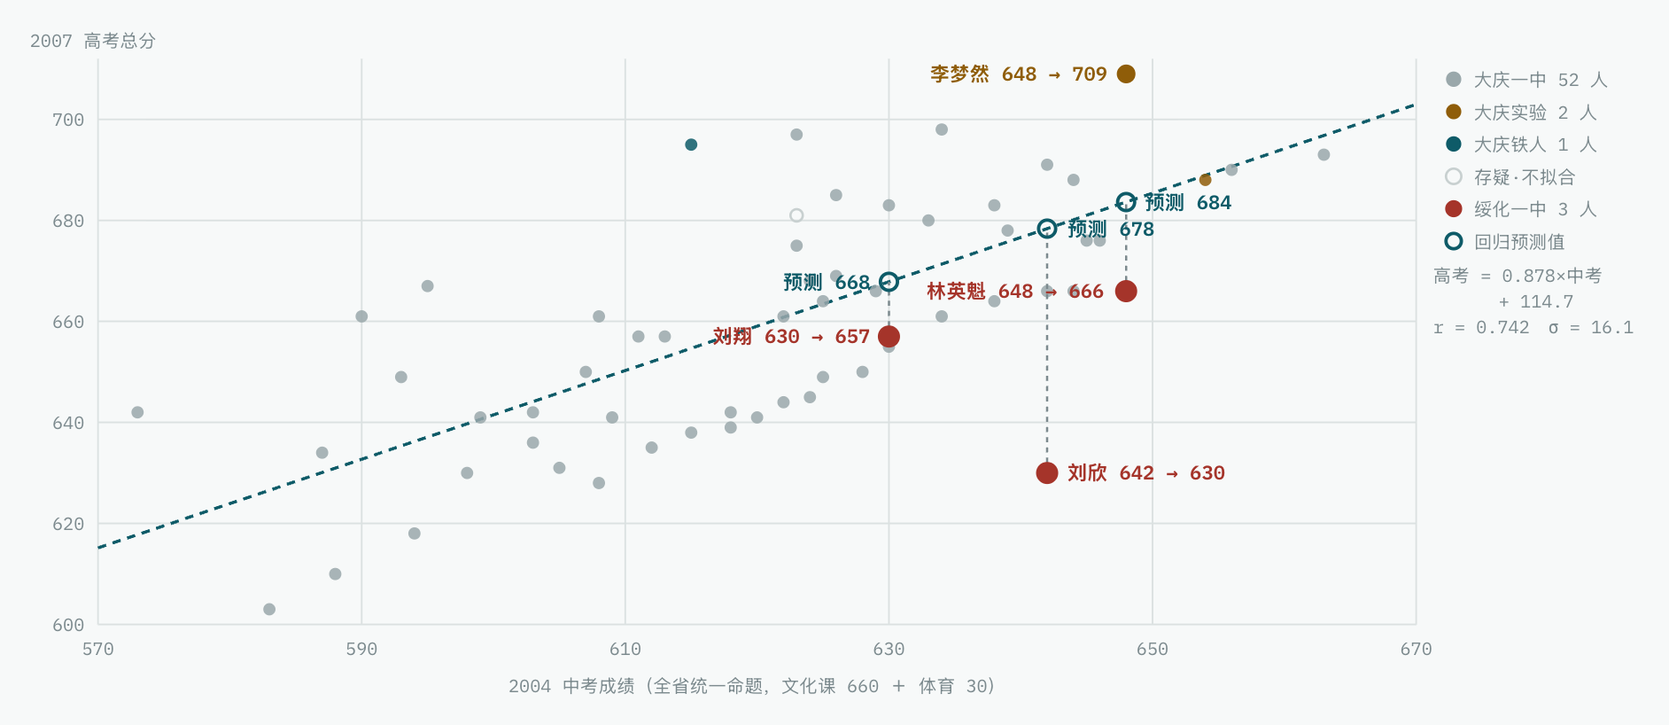
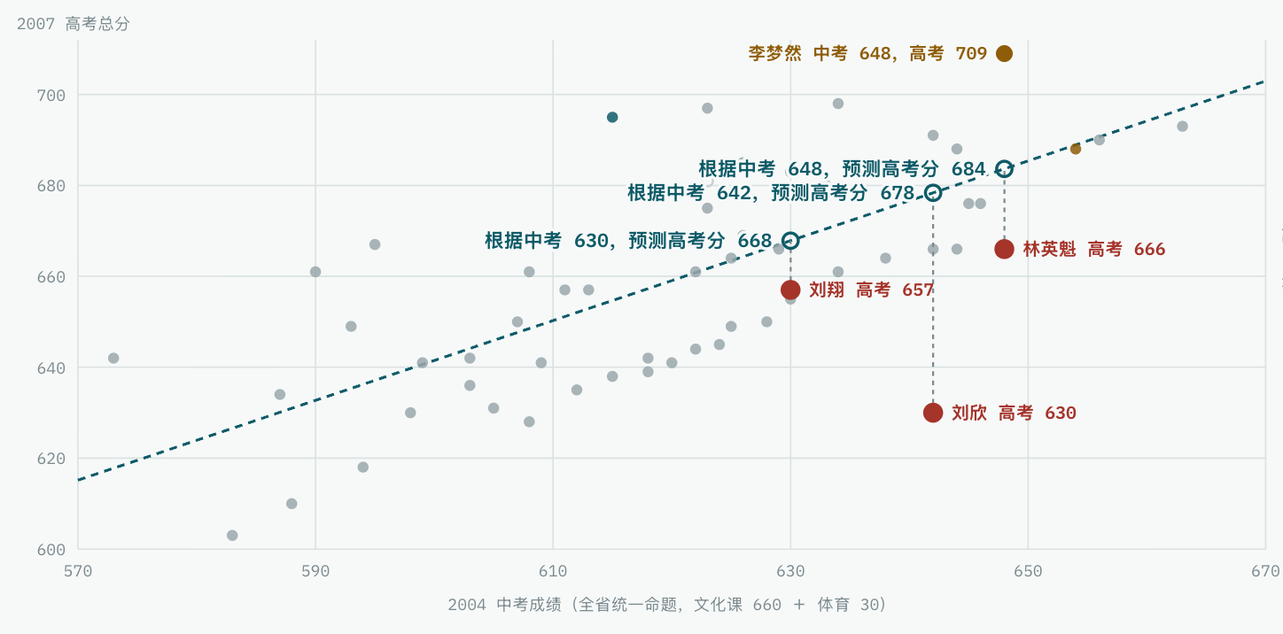
finish kao article

diff --git a/static/gaokao-666/index.html b/static/gaokao-666/index.html
@@ -104,6 +104,7 @@ tr:last-child td{border-bottom:0}
 tr.me td{background:var(--seal-w);color:var(--ink)}
 tr.me td.l{font-weight:700}
 tr.sum td{background:var(--sunk);font-weight:600;color:var(--ink)}
+tbody tr:nth-of-type(even):not(.me):not(.sum) td{background:var(--band)}
 .seal{color:var(--seal)}.pet{color:var(--petrol)}.amb{color:var(--amber)}
 b.big{font-size:1.15em}
 
@@ -306,21 +307,26 @@ line.hair{stroke:var(--hair);stroke-width:1}
   同年全国 58 所高校自主招生资格，绥化全市 8 个，全在肇东一中和安达高中，绥化一中 0 个。
   <strong>三个奥赛班，零个奥赛。</strong></p>
   <div class="tw"><table>
-    <thead><tr><th class="l">学科</th><th class="l">一班</th><th class="l">二班／三班</th><th class="l">两班是否同人</th></tr></thead>
+    <thead><tr><th class="l">学科</th><th class="l">一班</th><th class="l">三班</th></tr></thead>
     <tbody>
-      <tr><td class="l">数学</td><td class="l">张亚萍 · 齐师院数学系 <b class="pet">本科</b></td>
-          <td class="l">王太东 · 绥化师专数学系 <b class="seal">专科</b></td><td class="l seal"><b>不同</b></td></tr>
-      <tr><td class="l">物理</td><td class="l">王福玉 · 哈师大物理系 <b class="pet">本科</b>（班主任）</td>
-          <td class="l">孙丽华 · <b class="seal">学历不详</b></td><td class="l seal"><b>不同</b></td></tr>
-      <tr><td class="l">语文</td><td class="l">名册未记</td>
-          <td class="l">麻小慧 · 牡师院中文系 专科</td><td class="l">不详</td></tr>
-      <tr><td class="l">外语</td><td class="l">刘学华 · 绥化师专英语系 专科</td>
-          <td class="l">三班 胡玉龙 · 绥化师专英语系 专科</td><td class="l">同院校同学历</td></tr>
-      <tr><td class="l">化学</td><td class="l">高一 白云霞 · 齐师院化学系 本科<br>
-          <b>高二高三 庄自立 · 绥化师专化学系 <span class="seal">专科</span></b></td>
-          <td class="l">徐蕊秋 · 哈师大化学系 本科</td><td class="l">不同（三班这一科反而是本科）</td></tr>
-      <tr><td class="l">生物</td><td class="l">名册未记</td>
-          <td class="l">二班无课；三班 关玉 · 齐师院生物系 本科</td><td class="l">不详</td></tr>
+      <tr><td class="l">数学</td>
+          <td class="l"><b class="big">张亚萍 · 齐师院数学系 本科</b><br><span class="m">23 岁参加工作，时年 36–38 岁，工作 14 年</span></td>
+          <td class="l"><b class="big">王太东 · 绥化师专数学系 专科</b><br><span class="m">24 岁参加工作，时年 38–41 岁，工作 16 年</span></td></tr>
+      <tr><td class="l">物理</td>
+          <td class="l"><b class="big">王福玉 · 哈师大物理系 本科（班主任）</b><br><span class="m">23 岁参加工作，时年 32–35 岁，工作 11 年</span></td>
+          <td class="l"><b class="big">孙丽华 · 学历不详</b><br><span class="m">参加工作与年龄信息不详</span></td></tr>
+      <tr><td class="l">语文</td>
+          <td class="l">不详</td>
+          <td class="l"><b class="big">麻小慧 · 牡师院中文系 专科</b><br><span class="m">23 岁参加工作，时年 36–39 岁，工作 15 年</span></td></tr>
+      <tr><td class="l">外语</td>
+          <td class="l"><b class="big">刘学华 · 绥化师专英语系 专科</b><br><span class="m">19 岁参加工作，时年 39–42 岁，工作 22 年</span></td>
+          <td class="l"><b class="big">胡玉龙 · 绥化师专英语系 专科</b><br><span class="m">21 岁参加工作，时年 35–38 岁，工作 16 年</span></td></tr>
+      <tr><td class="l">化学</td>
+          <td class="l"><b class="big">高一 白云霞 · 齐师院化学系 本科</b><br><span class="m">20 岁参加工作，时年 38–39 岁（仅高一），工作 18 年</span><br><b class="big">高二高三 庄自立 · 绥化师专化学系 专科</b><br><span class="m">23 岁参加工作，时年 36–37 岁（高二起），工作 14 年</span></td>
+          <td class="l"><b class="big">徐蕊秋 · 哈师大化学系 本科</b><br><span class="m">21 岁参加工作，时年 40–43 岁，工作 21 年</span></td></tr>
+      <tr><td class="l">生物</td>
+          <td class="l">不详</td>
+          <td class="l"><b class="big">关玉 · 齐师院生物系 本科</b><br><span class="m">22 岁参加工作，时年 33–35 岁（高二起），工作 12 年</span></td></tr>
     </tbody>
   </table></div>
   <div class="find"><p><strong>两个班在九科里只有两科的老师有实质差别：数学和物理。</strong>
@@ -979,7 +985,7 @@ line.hair{stroke:var(--hair);stroke-width:1}
   再回 2004 年中考录取名册（5,760 条）逐人核对，
   最终得到 <strong>55 组可信配对</strong>（大庆一中 52、大庆实验 2、大庆铁人 1）。
   这是整个项目里唯一一份同届、逐人配对的数据：</p>
-  <div class="fig"><svg viewBox="0 0 980 420" width="100%" role="img" aria-label="大庆市 55 组 2004 中考与 2007 高考逐人配对，另标出绥化一中三人"><line x1="56" y1="354.0" x2="830.0" y2="354.0" stroke="var(--hair)"/><text x="48" y="358.0" text-anchor="end" class="ax">600</text><line x1="56" y1="294.7" x2="830.0" y2="294.7" stroke="var(--hair)"/><text x="48" y="298.7" text-anchor="end" class="ax">620</text><line x1="56" y1="235.4" x2="830.0" y2="235.4" stroke="var(--hair)"/><text x="48" y="239.4" text-anchor="end" class="ax">640</text><line x1="56" y1="176.1" x2="830.0" y2="176.1" stroke="var(--hair)"/><text x="48" y="180.1" text-anchor="end" class="ax">660</text><line x1="56" y1="116.9" x2="830.0" y2="116.9" stroke="var(--hair)"/><text x="48" y="120.9" text-anchor="end" class="ax">680</text><line x1="56" y1="57.6" x2="830.0" y2="57.6" stroke="var(--hair)"/><text x="48" y="61.6" text-anchor="end" class="ax">700</text><line x1="56.0" y1="22" x2="56.0" y2="354.0" stroke="var(--hair)"/><text x="56.0" y="372" text-anchor="middle" class="ax">570</text><line x1="210.8" y1="22" x2="210.8" y2="354.0" stroke="var(--hair)"/><text x="210.8" y="372" text-anchor="middle" class="ax">590</text><line x1="365.6" y1="22" x2="365.6" y2="354.0" stroke="var(--hair)"/><text x="365.6" y="372" text-anchor="middle" class="ax">610</text><line x1="520.4" y1="22" x2="520.4" y2="354.0" stroke="var(--hair)"/><text x="520.4" y="372" text-anchor="middle" class="ax">630</text><line x1="675.2" y1="22" x2="675.2" y2="354.0" stroke="var(--hair)"/><text x="675.2" y="372" text-anchor="middle" class="ax">650</text><line x1="830.0" y1="22" x2="830.0" y2="354.0" stroke="var(--hair)"/><text x="830.0" y="372" text-anchor="middle" class="ax">670</text><path d="M 56.0 309.1 L 830.0 48.8" stroke="var(--petrol)" stroke-width="1.8" stroke-dasharray="5 4" fill="none"/><circle cx="551.4" cy="63.5" r="3.6" fill="var(--bar)" fill-opacity="0.85"><title>陈川（大庆一中）中考 634 → 高考 698</title></circle><circle cx="466.2" cy="66.5" r="3.6" fill="var(--bar)" fill-opacity="0.85"><title>李悦（大庆一中）中考 623 → 高考 697</title></circle><circle cx="404.3" cy="72.4" r="3.6" fill="var(--petrol)" fill-opacity="0.85"><title>张远洋（大庆铁人中学）中考 615 → 高考 695</title></circle><circle cx="775.8" cy="78.3" r="3.6" fill="var(--bar)" fill-opacity="0.85"><title>李璐（大庆一中）中考 663 → 高考 693</title></circle><circle cx="613.3" cy="84.2" r="3.6" fill="var(--bar)" fill-opacity="0.85"><title>蒋莉（大庆一中）中考 642 → 高考 691</title></circle><circle cx="721.6" cy="87.2" r="3.6" fill="var(--bar)" fill-opacity="0.85"><title>关天下（大庆一中）中考 656 → 高考 690</title></circle><circle cx="628.8" cy="93.1" r="3.6" fill="var(--bar)" fill-opacity="0.85"><title>杜宇寰（大庆一中）中考 644 → 高考 688</title></circle><circle cx="706.2" cy="93.1" r="3.6" fill="var(--amber)" fill-opacity="0.85"><title>魏征（大庆实验中学）中考 654 → 高考 688</title></circle><circle cx="489.4" cy="102.0" r="3.6" fill="var(--bar)" fill-opacity="0.85"><title>李海旭（大庆一中）中考 626 → 高考 685</title></circle><circle cx="582.3" cy="108.0" r="3.6" fill="var(--bar)" fill-opacity="0.85"><title>曹琪（大庆一中）中考 638 → 高考 683</title></circle><circle cx="520.4" cy="108.0" r="3.6" fill="var(--bar)" fill-opacity="0.85"><title>牛雨军（大庆一中）中考 630 → 高考 683</title></circle><circle cx="543.6" cy="116.9" r="3.6" fill="var(--bar)" fill-opacity="0.85"><title>符迪（大庆一中）中考 633 → 高考 680</title></circle><circle cx="590.1" cy="122.8" r="3.6" fill="var(--bar)" fill-opacity="0.85"><title>王惠西（大庆一中）中考 639 → 高考 678</title></circle><circle cx="636.5" cy="128.7" r="3.6" fill="var(--bar)" fill-opacity="0.85"><title>刘安东（大庆一中）中考 645 → 高考 676</title></circle><circle cx="644.2" cy="128.7" r="3.6" fill="var(--bar)" fill-opacity="0.85"><title>张洪谋（大庆一中）中考 646 → 高考 676</title></circle><circle cx="466.2" cy="131.7" r="3.6" fill="var(--bar)" fill-opacity="0.85"><title>于燕池（大庆一中）中考 623 → 高考 675</title></circle><circle cx="489.4" cy="149.5" r="3.6" fill="var(--bar)" fill-opacity="0.85"><title>张丽娜（大庆一中）中考 626 → 高考 669</title></circle><circle cx="474.0" cy="152.4" r="3.6" fill="var(--bar)" fill-opacity="0.85"><title>李岩松（大庆一中）中考 624 → 高考 668</title></circle><circle cx="249.5" cy="155.4" r="3.6" fill="var(--bar)" fill-opacity="0.85"><title>杨帆（大庆一中）中考 595 → 高考 667</title></circle><circle cx="512.7" cy="158.4" r="3.6" fill="var(--bar)" fill-opacity="0.85"><title>权文琪（大庆一中）中考 629 → 高考 666</title></circle><circle cx="613.3" cy="158.4" r="3.6" fill="var(--bar)" fill-opacity="0.85"><title>王金鑫（大庆一中）中考 642 → 高考 666</title></circle><circle cx="628.8" cy="158.4" r="3.6" fill="var(--bar)" fill-opacity="0.85"><title>鲍慊（大庆一中）中考 644 → 高考 666</title></circle><circle cx="481.7" cy="164.3" r="3.6" fill="var(--bar)" fill-opacity="0.85"><title>曹明阳（大庆一中）中考 625 → 高考 664</title></circle><circle cx="582.3" cy="164.3" r="3.6" fill="var(--bar)" fill-opacity="0.85"><title>曹沂（大庆一中）中考 638 → 高考 664</title></circle><circle cx="210.8" cy="173.2" r="3.6" fill="var(--bar)" fill-opacity="0.85"><title>张友钧（大庆一中）中考 590 → 高考 661</title></circle><circle cx="350.1" cy="173.2" r="3.6" fill="var(--bar)" fill-opacity="0.85"><title>张大磊（大庆一中）中考 608 → 高考 661</title></circle><circle cx="551.4" cy="173.2" r="3.6" fill="var(--bar)" fill-opacity="0.85"><title>梁轶（大庆一中）中考 634 → 高考 661</title></circle><circle cx="458.5" cy="173.2" r="3.6" fill="var(--bar)" fill-opacity="0.85"><title>顾舒然（大庆一中）中考 622 → 高考 661</title></circle><circle cx="373.3" cy="185.0" r="3.6" fill="var(--bar)" fill-opacity="0.85"><title>周旸（大庆一中）中考 611 → 高考 657</title></circle><circle cx="388.8" cy="185.0" r="3.6" fill="var(--bar)" fill-opacity="0.85"><title>孟志昊（大庆一中）中考 613 → 高考 657</title></circle><circle cx="520.4" cy="191.0" r="3.6" fill="var(--bar)" fill-opacity="0.85"><title>张晨（大庆一中）中考 630 → 高考 655</title></circle><circle cx="504.9" cy="205.8" r="3.6" fill="var(--bar)" fill-opacity="0.85"><title>冯聪（大庆一中）中考 628 → 高考 650</title></circle><circle cx="342.4" cy="205.8" r="3.6" fill="var(--bar)" fill-opacity="0.85"><title>尹成（大庆一中）中考 607 → 高考 650</title></circle><circle cx="481.7" cy="208.8" r="3.6" fill="var(--bar)" fill-opacity="0.85"><title>杨赫（大庆一中）中考 625 → 高考 649</title></circle><circle cx="234.0" cy="208.8" r="3.6" fill="var(--bar)" fill-opacity="0.85"><title>王萌（大庆一中）中考 593 → 高考 649</title></circle><circle cx="474.0" cy="220.6" r="3.6" fill="var(--bar)" fill-opacity="0.85"><title>吕秀娟（大庆一中）中考 624 → 高考 645</title></circle><circle cx="458.5" cy="223.6" r="3.6" fill="var(--bar)" fill-opacity="0.85"><title>李秋稷（大庆一中）中考 622 → 高考 644</title></circle><circle cx="79.2" cy="229.5" r="3.6" fill="var(--bar)" fill-opacity="0.85"><title>刘冰（大庆一中）中考 573 → 高考 642</title></circle><circle cx="311.4" cy="229.5" r="3.6" fill="var(--bar)" fill-opacity="0.85"><title>刘航（大庆一中）中考 603 → 高考 642</title></circle><circle cx="427.5" cy="229.5" r="3.6" fill="var(--bar)" fill-opacity="0.85"><title>陈麒（大庆一中）中考 618 → 高考 642</title></circle><circle cx="443.0" cy="232.5" r="3.6" fill="var(--bar)" fill-opacity="0.85"><title>任聪（大庆一中）中考 620 → 高考 641</title></circle><circle cx="280.5" cy="232.5" r="3.6" fill="var(--bar)" fill-opacity="0.85"><title>孙凯蒂（大庆一中）中考 599 → 高考 641</title></circle><circle cx="357.9" cy="232.5" r="3.6" fill="var(--bar)" fill-opacity="0.85"><title>牛春军（大庆一中）中考 609 → 高考 641</title></circle><circle cx="427.5" cy="238.4" r="3.6" fill="var(--bar)" fill-opacity="0.85"><title>朱梓璇（大庆一中）中考 618 → 高考 639</title></circle><circle cx="404.3" cy="241.4" r="3.6" fill="var(--bar)" fill-opacity="0.85"><title>杨超（大庆一中）中考 615 → 高考 638</title></circle><circle cx="311.4" cy="247.3" r="3.6" fill="var(--bar)" fill-opacity="0.85"><title>滕玥（大庆一中）中考 603 → 高考 636</title></circle><circle cx="381.1" cy="250.2" r="3.6" fill="var(--bar)" fill-opacity="0.85"><title>高嵽（大庆一中）中考 612 → 高考 635</title></circle><circle cx="187.6" cy="253.2" r="3.6" fill="var(--bar)" fill-opacity="0.85"><title>韩旭（大庆一中）中考 587 → 高考 634</title></circle><circle cx="326.9" cy="262.1" r="3.6" fill="var(--bar)" fill-opacity="0.85"><title>赵婉婷（大庆一中）中考 605 → 高考 631</title></circle><circle cx="272.7" cy="265.1" r="3.6" fill="var(--bar)" fill-opacity="0.85"><title>石峰（大庆一中）中考 598 → 高考 630</title></circle><circle cx="350.1" cy="271.0" r="3.6" fill="var(--bar)" fill-opacity="0.85"><title>李思源（大庆一中）中考 608 → 高考 628</title></circle><circle cx="241.8" cy="300.6" r="3.6" fill="var(--bar)" fill-opacity="0.85"><title>邱玉婷（大庆一中）中考 594 → 高考 618</title></circle><circle cx="195.3" cy="324.4" r="3.6" fill="var(--bar)" fill-opacity="0.85"><title>杨博超（大庆一中）中考 588 → 高考 610</title></circle><circle cx="156.6" cy="345.1" r="3.6" fill="var(--bar)" fill-opacity="0.85"><title>徐哲（大庆一中）中考 583 → 高考 603</title></circle><circle cx="466.2" cy="113.9" r="3.6" fill="none" stroke="var(--rule)" stroke-width="1.4"><title>王鑫（大庆市铁人中学）中考 623 → 高考 681｜B 级配对，不参与拟合</title></circle><circle cx="659.7" cy="30.9" r="5.5" fill="var(--amber)"><title>李梦然（大庆实验）中考 648 → 高考 709</title></circle><text x="648.7" y="34.9" class="anno" style="fill:var(--amber)" text-anchor="end">李梦然 648 → 709</text><line x1="659.7" y1="158.4" x2="659.7" y2="106.1" stroke="var(--ink-3)" stroke-width="1.3" stroke-dasharray="3 3"/><circle cx="659.7" cy="106.1" r="5" fill="none" stroke="var(--petrol)" stroke-width="2"><title>林英魁 回归预测 684 分</title></circle><text x="670.7" y="110.1" class="anno pet" text-anchor="start">预测 684</text><circle cx="659.7" cy="158.4" r="6.5" fill="var(--seal)"><title>林英魁（绥化一中）中考 648 → 高考 666，残差 -18 分</title></circle><text x="646.7" y="162.4" class="anno seal" text-anchor="end">林英魁 648 → 666</text><line x1="613.3" y1="265.1" x2="613.3" y2="121.7" stroke="var(--ink-3)" stroke-width="1.3" stroke-dasharray="3 3"/><circle cx="613.3" cy="121.7" r="5" fill="none" stroke="var(--petrol)" stroke-width="2"><title>刘欣 回归预测 678 分</title></circle><text x="625.3" y="125.7" class="anno pet" text-anchor="start">预测 678</text><circle cx="613.3" cy="265.1" r="6.5" fill="var(--seal)"><title>刘欣（绥化一中）中考 642 → 高考 630，残差 -48 分</title></circle><text x="625.3" y="269.1" class="anno seal" text-anchor="start">刘欣 642 → 630</text><line x1="520.4" y1="185.0" x2="520.4" y2="152.9" stroke="var(--ink-3)" stroke-width="1.3" stroke-dasharray="3 3"/><circle cx="520.4" cy="152.9" r="5" fill="none" stroke="var(--petrol)" stroke-width="2"><title>刘翔 回归预测 668 分</title></circle><text x="509.4" y="156.9" class="anno pet" text-anchor="end">预测 668</text><circle cx="520.4" cy="185.0" r="6.5" fill="var(--seal)"><title>刘翔（绥化一中）中考 630 → 高考 657，残差 -11 分</title></circle><text x="509.4" y="189.0" class="anno seal" text-anchor="end">刘翔 630 → 657</text><circle cx="852" cy="34" r="4.5" fill="var(--bar)"/><text x="864" y="38" class="ax">大庆一中 52 人</text><circle cx="852" cy="53" r="4.5" fill="var(--amber)"/><text x="864" y="57" class="ax">大庆实验 2 人</text><circle cx="852" cy="72" r="4.5" fill="var(--petrol)"/><text x="864" y="76" class="ax">大庆铁人 1 人</text><circle cx="852" cy="91" r="4.5" fill="none" stroke="var(--rule)" stroke-width="1.4"/><text x="864" y="95" class="ax">存疑·不拟合</text><circle cx="852" cy="110" r="5" fill="var(--seal)"/><text x="864" y="114" class="ax">绥化一中 3 人</text><circle cx="852" cy="129" r="4.5" fill="none" stroke="var(--petrol)" stroke-width="2"/><text x="864" y="133" class="ax">回归预测值</text><text x="840" y="153" class="ax">高考 = 0.878×中考</text><text x="840" y="168" class="ax">　　　 + 114.7</text><text x="840" y="183" class="ax">r = 0.742　σ = 16.1</text><text x="16" y="15" class="ax">2007 高考总分</text><text x="443.0" y="394" text-anchor="middle" class="ax">2004 中考成绩（全省统一命题，文化课 660 ＋ 体育 30）</text></svg></div>
+  <div class="fig"><svg viewBox="0 0 980 420" width="100%" role="img" aria-label="大庆市 55 组 2004 中考与 2007 高考逐人配对，另标出绥化一中三人"><line x1="56" y1="354.0" x2="830.0" y2="354.0" stroke="var(--hair)"/><text x="48" y="358.0" text-anchor="end" class="ax">600</text><line x1="56" y1="294.7" x2="830.0" y2="294.7" stroke="var(--hair)"/><text x="48" y="298.7" text-anchor="end" class="ax">620</text><line x1="56" y1="235.4" x2="830.0" y2="235.4" stroke="var(--hair)"/><text x="48" y="239.4" text-anchor="end" class="ax">640</text><line x1="56" y1="176.1" x2="830.0" y2="176.1" stroke="var(--hair)"/><text x="48" y="180.1" text-anchor="end" class="ax">660</text><line x1="56" y1="116.9" x2="830.0" y2="116.9" stroke="var(--hair)"/><text x="48" y="120.9" text-anchor="end" class="ax">680</text><line x1="56" y1="57.6" x2="830.0" y2="57.6" stroke="var(--hair)"/><text x="48" y="61.6" text-anchor="end" class="ax">700</text><line x1="56.0" y1="22" x2="56.0" y2="354.0" stroke="var(--hair)"/><text x="56.0" y="372" text-anchor="middle" class="ax">570</text><line x1="210.8" y1="22" x2="210.8" y2="354.0" stroke="var(--hair)"/><text x="210.8" y="372" text-anchor="middle" class="ax">590</text><line x1="365.6" y1="22" x2="365.6" y2="354.0" stroke="var(--hair)"/><text x="365.6" y="372" text-anchor="middle" class="ax">610</text><line x1="520.4" y1="22" x2="520.4" y2="354.0" stroke="var(--hair)"/><text x="520.4" y="372" text-anchor="middle" class="ax">630</text><line x1="675.2" y1="22" x2="675.2" y2="354.0" stroke="var(--hair)"/><text x="675.2" y="372" text-anchor="middle" class="ax">650</text><line x1="830.0" y1="22" x2="830.0" y2="354.0" stroke="var(--hair)"/><text x="830.0" y="372" text-anchor="middle" class="ax">670</text><path d="M 56.0 309.1 L 830.0 48.8" stroke="var(--petrol)" stroke-width="1.8" stroke-dasharray="5 4" fill="none"/><circle cx="551.4" cy="63.5" r="3.6" fill="var(--bar)" fill-opacity="0.85"><title>陈川（大庆一中）中考 634 → 高考 698</title></circle><circle cx="466.2" cy="66.5" r="3.6" fill="var(--bar)" fill-opacity="0.85"><title>李悦（大庆一中）中考 623 → 高考 697</title></circle><circle cx="404.3" cy="72.4" r="3.6" fill="var(--petrol)" fill-opacity="0.85"><title>张远洋（大庆铁人中学）中考 615 → 高考 695</title></circle><circle cx="775.8" cy="78.3" r="3.6" fill="var(--bar)" fill-opacity="0.85"><title>李璐（大庆一中）中考 663 → 高考 693</title></circle><circle cx="613.3" cy="84.2" r="3.6" fill="var(--bar)" fill-opacity="0.85"><title>蒋莉（大庆一中）中考 642 → 高考 691</title></circle><circle cx="721.6" cy="87.2" r="3.6" fill="var(--bar)" fill-opacity="0.85"><title>关天下（大庆一中）中考 656 → 高考 690</title></circle><circle cx="628.8" cy="93.1" r="3.6" fill="var(--bar)" fill-opacity="0.85"><title>杜宇寰（大庆一中）中考 644 → 高考 688</title></circle><circle cx="706.2" cy="93.1" r="3.6" fill="var(--amber)" fill-opacity="0.85"><title>魏征（大庆实验中学）中考 654 → 高考 688</title></circle><circle cx="489.4" cy="102.0" r="3.6" fill="var(--bar)" fill-opacity="0.85"><title>李海旭（大庆一中）中考 626 → 高考 685</title></circle><circle cx="582.3" cy="108.0" r="3.6" fill="var(--bar)" fill-opacity="0.85"><title>曹琪（大庆一中）中考 638 → 高考 683</title></circle><circle cx="520.4" cy="108.0" r="3.6" fill="var(--bar)" fill-opacity="0.85"><title>牛雨军（大庆一中）中考 630 → 高考 683</title></circle><circle cx="543.6" cy="116.9" r="3.6" fill="var(--bar)" fill-opacity="0.85"><title>符迪（大庆一中）中考 633 → 高考 680</title></circle><circle cx="590.1" cy="122.8" r="3.6" fill="var(--bar)" fill-opacity="0.85"><title>王惠西（大庆一中）中考 639 → 高考 678</title></circle><circle cx="636.5" cy="128.7" r="3.6" fill="var(--bar)" fill-opacity="0.85"><title>刘安东（大庆一中）中考 645 → 高考 676</title></circle><circle cx="644.2" cy="128.7" r="3.6" fill="var(--bar)" fill-opacity="0.85"><title>张洪谋（大庆一中）中考 646 → 高考 676</title></circle><circle cx="466.2" cy="131.7" r="3.6" fill="var(--bar)" fill-opacity="0.85"><title>于燕池（大庆一中）中考 623 → 高考 675</title></circle><circle cx="489.4" cy="149.5" r="3.6" fill="var(--bar)" fill-opacity="0.85"><title>张丽娜（大庆一中）中考 626 → 高考 669</title></circle><circle cx="474.0" cy="152.4" r="3.6" fill="var(--bar)" fill-opacity="0.85"><title>李岩松（大庆一中）中考 624 → 高考 668</title></circle><circle cx="249.5" cy="155.4" r="3.6" fill="var(--bar)" fill-opacity="0.85"><title>杨帆（大庆一中）中考 595 → 高考 667</title></circle><circle cx="512.7" cy="158.4" r="3.6" fill="var(--bar)" fill-opacity="0.85"><title>权文琪（大庆一中）中考 629 → 高考 666</title></circle><circle cx="613.3" cy="158.4" r="3.6" fill="var(--bar)" fill-opacity="0.85"><title>王金鑫（大庆一中）中考 642 → 高考 666</title></circle><circle cx="628.8" cy="158.4" r="3.6" fill="var(--bar)" fill-opacity="0.85"><title>鲍慊（大庆一中）中考 644 → 高考 666</title></circle><circle cx="481.7" cy="164.3" r="3.6" fill="var(--bar)" fill-opacity="0.85"><title>曹明阳（大庆一中）中考 625 → 高考 664</title></circle><circle cx="582.3" cy="164.3" r="3.6" fill="var(--bar)" fill-opacity="0.85"><title>曹沂（大庆一中）中考 638 → 高考 664</title></circle><circle cx="210.8" cy="173.2" r="3.6" fill="var(--bar)" fill-opacity="0.85"><title>张友钧（大庆一中）中考 590 → 高考 661</title></circle><circle cx="350.1" cy="173.2" r="3.6" fill="var(--bar)" fill-opacity="0.85"><title>张大磊（大庆一中）中考 608 → 高考 661</title></circle><circle cx="551.4" cy="173.2" r="3.6" fill="var(--bar)" fill-opacity="0.85"><title>梁轶（大庆一中）中考 634 → 高考 661</title></circle><circle cx="458.5" cy="173.2" r="3.6" fill="var(--bar)" fill-opacity="0.85"><title>顾舒然（大庆一中）中考 622 → 高考 661</title></circle><circle cx="373.3" cy="185.0" r="3.6" fill="var(--bar)" fill-opacity="0.85"><title>周旸（大庆一中）中考 611 → 高考 657</title></circle><circle cx="388.8" cy="185.0" r="3.6" fill="var(--bar)" fill-opacity="0.85"><title>孟志昊（大庆一中）中考 613 → 高考 657</title></circle><circle cx="520.4" cy="191.0" r="3.6" fill="var(--bar)" fill-opacity="0.85"><title>张晨（大庆一中）中考 630 → 高考 655</title></circle><circle cx="504.9" cy="205.8" r="3.6" fill="var(--bar)" fill-opacity="0.85"><title>冯聪（大庆一中）中考 628 → 高考 650</title></circle><circle cx="342.4" cy="205.8" r="3.6" fill="var(--bar)" fill-opacity="0.85"><title>尹成（大庆一中）中考 607 → 高考 650</title></circle><circle cx="481.7" cy="208.8" r="3.6" fill="var(--bar)" fill-opacity="0.85"><title>杨赫（大庆一中）中考 625 → 高考 649</title></circle><circle cx="234.0" cy="208.8" r="3.6" fill="var(--bar)" fill-opacity="0.85"><title>王萌（大庆一中）中考 593 → 高考 649</title></circle><circle cx="474.0" cy="220.6" r="3.6" fill="var(--bar)" fill-opacity="0.85"><title>吕秀娟（大庆一中）中考 624 → 高考 645</title></circle><circle cx="458.5" cy="223.6" r="3.6" fill="var(--bar)" fill-opacity="0.85"><title>李秋稷（大庆一中）中考 622 → 高考 644</title></circle><circle cx="79.2" cy="229.5" r="3.6" fill="var(--bar)" fill-opacity="0.85"><title>刘冰（大庆一中）中考 573 → 高考 642</title></circle><circle cx="311.4" cy="229.5" r="3.6" fill="var(--bar)" fill-opacity="0.85"><title>刘航（大庆一中）中考 603 → 高考 642</title></circle><circle cx="427.5" cy="229.5" r="3.6" fill="var(--bar)" fill-opacity="0.85"><title>陈麒（大庆一中）中考 618 → 高考 642</title></circle><circle cx="443.0" cy="232.5" r="3.6" fill="var(--bar)" fill-opacity="0.85"><title>任聪（大庆一中）中考 620 → 高考 641</title></circle><circle cx="280.5" cy="232.5" r="3.6" fill="var(--bar)" fill-opacity="0.85"><title>孙凯蒂（大庆一中）中考 599 → 高考 641</title></circle><circle cx="357.9" cy="232.5" r="3.6" fill="var(--bar)" fill-opacity="0.85"><title>牛春军（大庆一中）中考 609 → 高考 641</title></circle><circle cx="427.5" cy="238.4" r="3.6" fill="var(--bar)" fill-opacity="0.85"><title>朱梓璇（大庆一中）中考 618 → 高考 639</title></circle><circle cx="404.3" cy="241.4" r="3.6" fill="var(--bar)" fill-opacity="0.85"><title>杨超（大庆一中）中考 615 → 高考 638</title></circle><circle cx="311.4" cy="247.3" r="3.6" fill="var(--bar)" fill-opacity="0.85"><title>滕玥（大庆一中）中考 603 → 高考 636</title></circle><circle cx="381.1" cy="250.2" r="3.6" fill="var(--bar)" fill-opacity="0.85"><title>高嵽（大庆一中）中考 612 → 高考 635</title></circle><circle cx="187.6" cy="253.2" r="3.6" fill="var(--bar)" fill-opacity="0.85"><title>韩旭（大庆一中）中考 587 → 高考 634</title></circle><circle cx="326.9" cy="262.1" r="3.6" fill="var(--bar)" fill-opacity="0.85"><title>赵婉婷（大庆一中）中考 605 → 高考 631</title></circle><circle cx="272.7" cy="265.1" r="3.6" fill="var(--bar)" fill-opacity="0.85"><title>石峰（大庆一中）中考 598 → 高考 630</title></circle><circle cx="350.1" cy="271.0" r="3.6" fill="var(--bar)" fill-opacity="0.85"><title>李思源（大庆一中）中考 608 → 高考 628</title></circle><circle cx="241.8" cy="300.6" r="3.6" fill="var(--bar)" fill-opacity="0.85"><title>邱玉婷（大庆一中）中考 594 → 高考 618</title></circle><circle cx="195.3" cy="324.4" r="3.6" fill="var(--bar)" fill-opacity="0.85"><title>杨博超（大庆一中）中考 588 → 高考 610</title></circle><circle cx="156.6" cy="345.1" r="3.6" fill="var(--bar)" fill-opacity="0.85"><title>徐哲（大庆一中）中考 583 → 高考 603</title></circle><circle cx="466.2" cy="113.9" r="3.6" fill="none" stroke="var(--rule)" stroke-width="1.4"><title>王鑫（大庆市铁人中学）中考 623 → 高考 681｜B 级配对，不参与拟合</title></circle><circle cx="659.7" cy="30.9" r="5.5" fill="var(--amber)"><title>李梦然（大庆实验）中考 648 → 高考 709</title></circle><text x="648.7" y="34.9" class="anno" style="fill:var(--amber)" text-anchor="end">李梦然 中考 648，高考 709</text><line x1="659.7" y1="158.4" x2="659.7" y2="106.1" stroke="var(--ink-3)" stroke-width="1.3" stroke-dasharray="3 3"/><circle cx="659.7" cy="106.1" r="5" fill="none" stroke="var(--petrol)" stroke-width="2"><title>林英魁 回归预测 684 分</title></circle><text x="647.7" y="110.1" class="anno pet" text-anchor="end" style="font-size:12.5px;font-weight:700;paint-order:stroke;stroke:var(--card);stroke-width:4px;stroke-linejoin:round">根据中考 648，预测高考分 684</text><circle cx="659.7" cy="158.4" r="6.5" fill="var(--seal)"><title>林英魁（绥化一中）中考 648 → 高考 666，残差 -18 分</title></circle><text x="671.7" y="162.4" class="anno seal" text-anchor="start">林英魁 高考 666</text><line x1="613.3" y1="265.1" x2="613.3" y2="121.7" stroke="var(--ink-3)" stroke-width="1.3" stroke-dasharray="3 3"/><circle cx="613.3" cy="121.7" r="5" fill="none" stroke="var(--petrol)" stroke-width="2"><title>刘欣 回归预测 678 分</title></circle><text x="601.3" y="125.7" class="anno pet" text-anchor="end" style="font-size:12.5px;font-weight:700;paint-order:stroke;stroke:var(--card);stroke-width:4px;stroke-linejoin:round">根据中考 642，预测高考分 678</text><circle cx="613.3" cy="265.1" r="6.5" fill="var(--seal)"><title>刘欣（绥化一中）中考 642 → 高考 630，残差 -48 分</title></circle><text x="625.3" y="269.1" class="anno seal" text-anchor="start">刘欣 高考 630</text><line x1="520.4" y1="185.0" x2="520.4" y2="152.9" stroke="var(--ink-3)" stroke-width="1.3" stroke-dasharray="3 3"/><circle cx="520.4" cy="152.9" r="5" fill="none" stroke="var(--petrol)" stroke-width="2"><title>刘翔 回归预测 668 分</title></circle><text x="508.4" y="156.9" class="anno pet" text-anchor="end" style="font-size:12.5px;font-weight:700;paint-order:stroke;stroke:var(--card);stroke-width:4px;stroke-linejoin:round">根据中考 630，预测高考分 668</text><circle cx="520.4" cy="185.0" r="6.5" fill="var(--seal)"><title>刘翔（绥化一中）中考 630 → 高考 657，残差 -11 分</title></circle><text x="532.4" y="189.0" class="anno seal" text-anchor="start">刘翔 高考 657</text><circle cx="852" cy="34" r="4.5" fill="var(--bar)"/><text x="864" y="38" class="ax">大庆一中 52 人</text><circle cx="852" cy="53" r="4.5" fill="var(--amber)"/><text x="864" y="57" class="ax">大庆实验 2 人</text><circle cx="852" cy="72" r="4.5" fill="var(--petrol)"/><text x="864" y="76" class="ax">大庆铁人 1 人</text><circle cx="852" cy="91" r="4.5" fill="none" stroke="var(--rule)" stroke-width="1.4"/><text x="864" y="95" class="ax">存疑·不拟合</text><circle cx="852" cy="110" r="5" fill="var(--seal)"/><text x="864" y="114" class="ax">绥化一中 3 人</text><circle cx="852" cy="129" r="4.5" fill="none" stroke="var(--petrol)" stroke-width="2"/><text x="864" y="133" class="ax">回归预测值</text><text x="840" y="153" class="ax">高考 = 0.878×中考</text><text x="840" y="168" class="ax">　　　 + 114.7</text><text x="840" y="183" class="ax">r = 0.742　σ = 16.1</text><text x="16" y="15" class="ax">2007 高考总分</text><text x="443.0" y="394" text-anchor="middle" class="ax">2004 中考成绩（全省统一命题，文化课 660 ＋ 体育 30）</text></svg></div>
   <p class="figcap">大庆市 <strong>55 组</strong>「2004 中考 → 2007 高考」逐人配对。
   回归线：<strong>高考 ＝ 0.878 × 中考 ＋ 114.7，r ＝ 0.742，残差标准差 16.1 分</strong>。
   <strong class="pet">中考 648 分的预测值是 684 分</strong>（旧的 52 组模型给 682 分，差 2 分——远在 16.1 分的残差之内；下文一律沿用较保守的 682）。

diff --git a/content/posts/kao.md b/content/posts/kao.md
@@ -12,13 +12,13 @@ math: true
 
 ## 写在前面
 
-上周四，终于在电影院补票《肖申克的救赎》，还记得第一次是看是2008年，那时候不知道十九年的冤狱是什么概念，而自2007年高考之后，到如今正是十九年。
+上周四，终于在电影院补票《肖申克的救赎》，第一次是看的时候，不理解十九年的冤狱是什么概念，而自2007年高考之后，至如今正是十九年。
 
 对于这个文章里的事，许多是我最近才知道和意识到，部分内容对我自己也觉得有所震撼，于是我想我尽可能[陈述事实](https://graphics.boston.com/globe/spotlight/abuse/stories/010602_geoghan.htm)，而减少个人情感的评价。而所谓的事实，因为事情过去二十多年了，不仅记忆模糊，连现实中的痕迹都已逐渐被彻底抹去，我只能尽我所能的找到经得起推敲的证据和在有限信息下的可靠推测。
 
-本文中的数据，除了明显的互联网检索和知网万方以外，我还翻阅了2004年到2007年之间，所有中高考季的《哈尔滨日报》《新晚报》《生活报》《绥化日报》和《绥化晚报》，对于绥化高考历史，《绥化高考四十年》是我的主要参考，而对于高考分数分布以及分数线有关的信息，赵振芳主编的2005年到2016年间的七本《高考指南：黑龙江版》是本文的主要参考，但最详细的数据来自于黑龙江省教育厅、各市教育局以及省内知名初高中在2003年至2008年间超过一百万份的网站快照，通过检索这些近 20G 的纯文本数据，加上大模型 Agent 的程序化处理和交叉信息加工，让我能从各种零散的细节中，重新拼凑出自己中高考时段更为清晰的印象。
+本文中的数据，除了明显的互联网检索和知网万方以外，我还翻阅了2004年到2007年之间，所有中高考季的《哈尔滨日报》《新晚报》《生活报》《绥化日报》和《绥化晚报》，对于绥化高考历史，霍凤国主编的《绥化高考四十年》是我的主要参考，而对于高考分数分布以及分数线有关的信息，赵振芳主编的2005年到2016年间的七本《高考指南：黑龙江版》是本文的主要参考，但最详细的数据来自于黑龙江省教育厅、各市教育局以及省内知名初高中在2003年至2008年间超过一百万份的网站历史快照存档，通过程序化检索近 20G 的纯文本数据，加上大模型 Agent 的交叉信息加工，让我能从各种零散的细节中，重新拼凑出自己中高考时段更为清晰的印象。
 
-高考之后，我还经历了超过八年的正式教育，尤其是在宾夕法尼亚大学校园度过的四年，我早就对唯分数论和学历崇拜感到厌恶，对标签化思考和绩优主义充满警惕，但今年偶然发现[高考估分杂志](./irresponsible)以及[怀念刘翔](./liuxiang)又着实让我意识到，自己内心那个停滞在青春期时代的孩童，依旧没有得到足够的抚慰，写下来并直面这些事实是对 C-PTSD 最好的疗愈。
+高考之后，我还经历了超过八年的正式教育，尤其是在宾夕法尼亚大学校园度过的四年，让我早就对唯分数论和学历崇拜感到厌恶，对标签化思考和绩优主义充满警惕，但今年偶然发现[高考估分杂志](./irresponsible)以及[怀念刘翔](./liuxiang)又着实让我意识到，自己内心那个停滞在青春期时代的孩童，依旧没有得到足够的抚慰，写下来并直面这些事实是对 C-PTSD 最好的疗愈。
 
 本文的数据和信息都来自于教育部门以及学校官方对外公布的数据，或者是当年报纸、书籍、杂志内的已出版信息，或许有些人认为这是自己的隐私，不愿被提及，但又或许有很多人也像我一样，想通过这些古早的数据，对过去有一个更细颗粒度的解读，以便更为从容的构建自我，又或是仅仅是作为唤起追忆的引子。我无法分辨隐私或者渴求二者，我便尽可能的使用公开的信息，做事实的搬运工。
 
@@ -34,15 +34,15 @@ math: true
 > 
 >             ---- 2007年时我自己回忆刚到绥化一中时的感受
 
-但是出分之后，我因为自己[考的很差而郁闷不已](https://web.archive.org/web/20260909131830/https:/blog.sina.com.cn/s/blog_4c3896b201000bvy.html)，一个原因是我只考了绥棱五中的第三，初中四年的大多数情况下我都是第二，全县也仅是第六名，当年的全县第一张成淑后来去了大庆实验，2007年考入北京外国语大学，绥棱五中第一，我的初中同班同学高菲去了哈工大附中，2007年高考失利，回绥棱一中复读，2008年高考以绥化市理科第七 $669$ 分 考入中国人民大学，绥棱五中第二，我的小学同班同学范琦去了大庆实验，2007年高考考入上海交通大学。二来，我引以为豪的数学只打了 $110$ 分，2003年中考后的一天，辛树林老师让我掐时间答2003年的数学卷子，我就把几乎所能做的都做对了，打了 $103$ 分。
+但是出分之后，我因为自己[考的很差而郁闷不已](https://web.archive.org/web/20260909131830/https:/blog.sina.com.cn/s/blog_4c3896b201000bvy.html)，一个原因是我只考了绥棱五中的第三，初中四年的大多数情况下我都是第二，全县也仅是第六名，当年的全县第一张成淑后来去了大庆实验，2007年考入北京外国语大学，绥棱五中第一，我的初中同班同学高菲去了哈工大附中，2007年高考失利，回绥棱一中复读，2008年高考以 $669$ 分绥化市理科第七的成绩考入中国人民大学，绥棱五中第二，我的小学同班同学范琦去了大庆实验，2007年考入上海交通大学。二来，我引以为豪的数学只打了 $110$ 分，2003年中考后的一天，辛树林老师让我去办公室答2003年的数学卷子，我就把几乎所能做的都做对了，打了 $103$ 分。
 
 但最近我才意识到，原来这个分数并不低，$648$ 分在大庆市区排名第 $11$，大庆铁人中学的录取分数线 $607$ 分，我在铁人录取的学生中，中考成绩排名第五，实验中学录取分数线是 $603$ 分，我在实验录取的学生中，中考成绩排名第四，大庆一中录取分数线是 $583$ 分，我在大庆一中录取的学生中排名第四，如果我去大庆中学、石油高中、东风高中或者大庆四中，那我就是那所学校中考分数最高的。
 
-因为[哈尔滨的试卷不同](https://web.archive.org/web/20130531212338/http://www.hlje.net/e/action/ShowInfo.php?classid=230&id=12598)，所以本文不会用哈尔滨的数据来作对比，不过哈三中宏志班在2004年的哈市录取线与统招线相同，对于外县市的[录取分数线是 $605$ 分](https://web.archive.org/web/20130531190951/hlje.net/e/action/ShowInfo.php?classid=230&id=13894)（这个分数和接下来我看到没说体育分数的，我都假设体育是满分 $30$ 分），可以一撇哈三中对外市县分数稀有度的换算。
+因为[哈尔滨的试卷和总分不同](https://web.archive.org/web/20130531212338/http://www.hlje.net/e/action/ShowInfo.php?classid=230&id=12598)，所以本文接下来不会用哈尔滨的中考分数来作对比，不过哈三中宏志班在2004年的哈市录取线与统招线相同，对于外县市的[录取分数线是 $605$ 分](https://web.archive.org/web/20130531190951/hlje.net/e/action/ShowInfo.php?classid=230&id=13894)（这个分数和接下来我看到没告知体育分数的，我都假设体育是满分 $30$ 分），可以一撇哈三中对外市县分数稀有度的换算。
 
 我能找到的其他城市里，佳木斯市最高分是佳木斯三中的 [王德浩](https://web.archive.org/web/20041204204625/http://www.sanzhong.net:80/liujun/shownews.asp?newsid=20)，$659.5$ 分，推测佳木斯三中全校第二至第十的分数分别为 $655$ 分、未知、$647.5$ 分、$640.5$ 分、$632$ 分、$631$ 分、$631$ 分、$630.5$ 分、$630$ 分。鸡西市中考第三 $636$ 分，全市中考第五 $632$ 分。肇东市最高分是 $651$ 分。
 
-相比于我的中考成绩，我的高考 $666$ 分，全省约 $652$ 名的成绩就显得退步了很多，[依旧以大庆为对比](https://web.archive.org/web/20071120141140/http://www.dqsy.com.cn:80/xibao/index.htm)，中考成绩，我在大庆全市是第 $11$ 名，高考变成了约 $190$ 名，在大庆实验中考是第 $5$ 名，高考是实验全校约 $100$ 名。即使考虑了外县生和复读生，这个排名下滑也是很显著的。但为什么我没去大庆读书呢？
+相比于我的中考成绩，我的高考 $666$ 分、全省约 $652$ 名的成绩就显得退步了很多，[依旧以大庆为对比](https://web.archive.org/web/20071120141140/http://www.dqsy.com.cn:80/xibao/index.htm)，中考成绩，我在大庆全市是第 $11$ 名，高考变成了约 $190$ 名，在大庆实验中考是市区应届第 $5$ 名，高考是全校约 $100$ 名。即使考虑了外县生和复读生，这个排名下滑也是显著的。但为什么我没去大庆读书呢？
 
 ## 受挫的高中择校
 
@@ -68,18 +68,18 @@ math: true
 
 初中时候，我一直都不认真学习，[初四的时候迷恋上写诗](/poems/busuanzi/)，理科的题目知道思路我就不演算，以至于自己变得很马虎，数学成绩总是因为算错数而下滑的厉害，但是我记得我在初四的时候参加了全国初中数学、物理、化学的竞赛，但是没有一个得到了反馈，物理和化学没有进入复赛，我知道自己那时候马虎，但是总觉得不至于一点成绩都没有，我那时候因此也郁闷了很久。
 
-直到20年后，在参加我婚礼过后，当时的于景尧副校长才把两个证书给我，一个是数学联赛一等奖（全省约 $120$ 人，全绥化市约 $2$ 到 $4$ 人），另一个是物理竞赛仅凭初赛成绩得到的三等奖，而化学只看复试评奖，我不知道自己是否过了初试，如果去参加物理复试，平时多次物理满分的我有信心能拿到二等奖及以上，我小学时候的发小李飞鸿就去参加了复试，拿到了二等奖，这个消息被刊登在了《绥化日报》2004年6月26日的头版要闻速递里，所以其实绥棱五中是很重视这个荣誉的，但是那份新闻里一点数学竞赛信息都没有，连我高中同班同学、同为绥棱五中一届的刘翔，他所获的三等奖也毫无提及。
+直到20年后，在参加我婚礼过后，当时的于景尧副校长才把两个证书给我，一个是数学联赛一等奖（全省约 $55$ 万同届生中约 $120$ 人，全绥化市约 $9$ 万同届生中约 $2$ 到 $4$ 人），另一个是物理竞赛仅凭初赛成绩（也就是复赛算零分）得到的三等奖，而化学只看复试评奖，我不知道自己是否过了初试，如果去参加物理复试，平时多次物理满分的我有信心能拿到二等奖及以上，我小学时候的发小李飞鸿就去参加了复试，拿到了二等奖，这个消息被刊登在了《绥化日报》2004年6月26日的头版要闻速递里，所以绥棱五中是很重视这个荣誉的，但是那份新闻里一点数学竞赛信息都没有，连我高中同班同学、同为绥棱五中一届的刘翔所获的三等奖也毫无提及。
 
-我不知道当时作为我父亲大学室友的铁兄弟于景尧副校长，出于跟我父亲什么过节，隐瞒了我数理化竞赛的成绩，也不知道为什么证书被保存了二十年还要还给我父亲，但我很好奇如果我当时知道自己其实适合竞赛，我的中学体验又会是一个什么别样的情景？
+我不知道当时作为我父亲大学室友的铁兄弟于景尧副校长，出于跟我父亲什么过节，隐瞒了我数理化竞赛的成绩，也不知道为什么证书被保存了二十年还要还给我父亲，但我很好奇如果我当时知道自己其实适合竞赛，我的中学生活又会是什么别样的体验？
 
-2004年，《绥化日报》还会在头版报道各市县初中竞赛获奖的情况，政策突变，2005年之后就在没有了消息。2003年，黑龙江省教育厅在网站[首页显著位置](https://web.archive.org/web/20030605214001/http://www.hlje.net:80/)挂着[初中数学](https://web.archive.org/web/20030720085322/http://www.hlje.net:80/news/shuxue.htm)和[物理竞赛](https://web.archive.org/web/20030831111525/http://www.hlje.net:80/news/wuli.htm)的获奖名单，在这之后我连名单我都抓取不到，只能通过来成文化学校的网站中找到2005年[包含 $109$ 人的一等奖名单](https://web.archive.org/web/20051023095745/http://lxfas.com:80/list.htm)。而我联系了省数学会的普及委员会，联系了哈工大数学系和哈师大数学系相关的老师，但都没有人能帮我找到2004年的名单。
+2004年春季，《绥化日报》还会在头版报道各市县初中竞赛获奖的情况，政策突变，2005年之后就在没有了消息。2003年，黑龙江省教育厅在网站[首页显著位置](https://web.archive.org/web/20030605214001/http://www.hlje.net:80/)挂着[初中数学](https://web.archive.org/web/20030720085322/http://www.hlje.net:80/news/shuxue.htm)和[物理竞赛](https://web.archive.org/web/20030831111525/http://www.hlje.net:80/news/wuli.htm)的获奖名单，在这之后我连名单我都抓取不到，只能在来成文化学校的网站快照中找到2005年[包含 $109$ 人的一等奖名单](https://web.archive.org/web/20051023095745/http://lxfas.com:80/list.htm)。而我联系了省数学会的普及委员会，联系了哈工大数学系和哈师大数学系相关的老师，仍旧没有人能帮我找到2004年的名单。
 
 <figure>
   <img src="./2003年全国初中数学联赛黑龙江赛区一等奖获得者各城市稀有度情况.png">
   <figcaption>2003年全国初中数学联赛黑龙江赛区一等奖获得者各城市稀有度对比</figcaption>
 </figure>
 
-如果我们分析2003年的名单，会发现数学一等奖 $126$ 人中，在校学生占比 $23.28\%$ 的哈尔滨却有着三分之二的获奖者，也就是 $84$ 个一等奖，而在校人数近九万人，占比 $17.67\%$ 的绥化，只有肇东、安达两个教育强市有 $2$ 个获奖者，也就是占比 $1.59\%$，这种严重的不对称，说明哈尔滨和大庆的学生，有着大量额外的专门训练，不仅仅是校内的侧重，也有着来成文化学校这样的顶级培训学校的资源。对于我这样平时不听课，不写作业，更从来没有补过一次数学课，没怎么做过竞赛题的人来说，这样的一个信手拈来的一等奖是弥足珍贵的。
+如果我们分析2003年的名单，会发现数学一等奖 $126$ 人中，在校学生占比 $23.28\%$ 的哈尔滨却有着 $66.67\%$ 的获奖者，也就是 $84$ 个一等奖，而在校人数近 $9$ 万人，占比 $17.67\%$ 的绥化，只有肇东、安达两个教育强市有 $2$ 个获奖者，也就是占比 $1.59\%$，这种严重的不对称，说明哈尔滨和大庆的学生，有着大量额外的专门训练，不仅仅是校内的侧重，也有着来成文化学校这样的顶级培训学校的资源。对于我这样平时不听课，不写作业，更从来没有补过一次数学课，没怎么做过竞赛题的人来说，这样一个信手拈来的一等奖是弥足珍贵的。
 
 如果我们追踪在2003年时不在哈尔滨或大庆读初中，在高中去了哈尔滨和大庆读书的学生，多数人都取得了值得注意的成绩，例如，齐齐哈尔的九个一等奖中，谢宽从富拉尔基重二中去了大庆实验，后来被北京大学录取，佟达和王超去了大庆实验，在2005年的高中竞赛一个全省 $12$，一个全省 $15$，王超去了清华的环境系，	同样来自齐市的顾本达去了大庆实验，被清华自动化录取，鸡西唯一的一等奖田野从育才中学去了哈三中，被清华电机系录取，罗慧诚从伊春八中去了大庆实验，后来被北京大学录取。
 
@@ -101,7 +101,7 @@ math: true
 
 [从上面两个图可以看出来](https://web.archive.org/web/20040729100940/http://lah.jxsedu.com:80/ReadNews.asp?NewsID=2661)，2004年时绥化市在黑龙江省算是教学质量偏差的，远不及大庆哈尔滨，大约和齐齐哈尔以及鹤岗差不多的水平，上面的 $600$ 分以上的比例这个数据在2007年高考中，全绥化市和2004年持平。
 
-2004年，绥化一中计划招收外市县 $50$ 人，各下属县市中考前 $30$ 的可以报名参加考试，我去绥化一中参加了考试，名次好像不是很靠前，最后来绥化一中报道的有约 $20$ 人，望奎县 $8$ 人，绥棱县 $4$ 人，安达、海伦、青冈各 $1$ 人，没有肇东、庆安、明水、兰西的学生，而非绥化市，来自教学质量更差一些的黑河、大兴安岭的有 $5$ 人。
+2004年，绥化一中计划招收外市县 $50$ 人，外县市中考前 $30$ 的可以报名参加考试，我去绥化一中参加了考试，名次好像不是很靠前，这些外县生最后来绥化一中报道的有约 $20$ 人，望奎县 $8$ 人，绥棱县 $4$ 人，安达、海伦、青冈各 $1$ 人，没有肇东、庆安、明水、兰西的学生，而非绥化市，来自教学质量更差一些的黑河、大兴安岭的有 $5$ 人。
 
 我不记得什么原因让我父亲选择了绥化一中，或许是因为当时绥化一中的水平在绥化市还算靠前，根据绥化一中在2004年高考后的招生宣传：
 
@@ -115,7 +115,7 @@ math: true
 
 ## 不负责任的分班
 
-但绥化一中的管理在2004年分班开始就有很大的问题，按照我的记忆，大概是市区分数靠前的前五名或者前十名给一班，外市县的给二班、三班各十人，然后其他的市区的学生穿插的分给一班二班三班，我知道三班的刘欣是中考 $642$ 分，二班的李柏荣是 $640$ 分，二人是北林区秦家中学的前两名。高二的时候，二班变为文科班，除了徐丽娟和纪红景去了一班，其他学理科的二班同学去了三班。
+但绥化一中的管理在2004年分班开始就有很大的问题，按照我的记忆，大概是市区分数前五名或者前十名给一班，外市县的给二班、三班各十人，然后其他的市区的学生穿插的分给一班二班三班，我知道三班的刘欣是中考 $642$ 分，二班的李柏荣是 $640$ 分，二人是北林区秦家中学的前两名。高二的时候，二班变为文科班，除了徐丽娟和纪红景去了一班，其他学理科的二班同学去了三班。
 
 具体三班的中考分数，我上学的时候没有问过同学们中考成绩，现在去问，大家多数都不记得了。但大概，来自望奎应该有一个 $650$ 分左右的学生，绥棱县里有一个是和我同样来自五中的刘翔，他中考 $630$ 分，绥棱五中第六，绥棱县十三。
 
@@ -124,7 +124,7 @@ math: true
   <figcaption>2004年中考绥化市区与大庆市的中考分数频率分布直方图</figcaption>
 </figure>
 
-根据公开的资源推测，大庆市 $21500$ 名考生比较靠前的考生分数分布大致是 $N(551, 34^2)$，而绥化市区 $4923$ 名的考生的中考分数分布大致是 $N(532, 37^2)$，望奎县和绥棱县的分数分布差不多也是这个分布但是参加中考的人数大约在 $3000$ 人到 $3500$ 人之间。总分上，大庆市要比绥化市区高约 $20$ 分的平均分，$600$ 分以上的学生大庆约 $1607$ 人，绥化市区约 $174$ 人，大庆是绥化密度的 $2.11$ 倍，$610$ 分以上的学生大庆 $856$ 人，绥化市区约 $86$ 人，大庆是绥化密度的 $2.28$ 倍，$620$ 分以上的学生大庆 $479$ 人，绥化是约 $43$ 人，大庆是绥化密度的 $2.55$ 倍，也就是分数越靠前，大庆市高分学生的密度比绥化越高，但是在大约 $635$ 分以上的极高分区间分布会比较特殊。
+根据公开的资源推测，大庆市 $21500$ 名考生比较靠前的考生分数分布大致符合 $N(551, 34^2)$，而绥化市区 $4923$ 名的考生的中考分数分布大致符合 $N(532, 37^2)$，望奎县和绥棱县的分数分布差不多也符合这个分布，但是参加中考的总人数大约在 $3000$ 人到 $3500$ 人之间。总分上，大庆市要比绥化市区高约 $20$ 分的平均分，$600$ 分以上的学生大庆约 $1607$ 人，绥化市区约 $174$ 人，大庆是绥化同分段学生数量密度的 $2.11$ 倍，$610$ 分以上的学生大庆 $856$ 人，绥化市区约 $86$ 人，大庆是绥化密度的 $2.28$ 倍，$620$ 分以上的学生大庆 $479$ 人，绥化是约 $43$ 人，大庆是绥化密度的 $2.55$ 倍，也就是分数越靠前，大庆市高分学生的密度比绥化越高，但是在大约 $635$ 分以上的极高分区间分布会比较特殊。
 
 <figure>
   <img src="./2004年中考大庆实验分数分布以及绥化一中高三三班分数分布.png">
@@ -138,10 +138,9 @@ math: true
   <figcaption>2007年高考大庆实验市区应届分数分布以及绥化一中高三三班分数分布（推测）</figcaption>
 </figure>
 
-为了更为直观的对比，提前预告一下三年后高考的分数情况，根据上下两个图像的对比可以看到，在大庆市区应届高考生理科排名中，我们三班出现了明显的整体向左滑移。
+而三年后高考的分数情况，根据上下两个图像的对比可以直观得看到，在大庆市区应届高考生理科排名中，我们三班出现了明显的整体向左滑移。
 
-
-一班都是市区的，且人数较少，而且有很多关系户，例如学校教师的子女以及校领导的亲属（我们的任课老师年龄和我们父母相仿），也就是因此，最好的教学资源都给了一班。但如果张玉臣校长考虑到三班有着很多在大庆实验中考成绩能进前百的高分生，为了出成绩，需要倾斜资源照顾，他一定会给数学、物理这两个关键学科都配置高水平的老师，但因为有一个收费的外语加强班的出现，导致了一个令人匪夷所思的教师配置安排，按照招生简章：
+一班都是市区的，且人数较少，而且有很多关系户，例如学校教师的子女以及校领导的亲属，也就是因此，最好的教学资源都给了一班。但如果张玉臣校长考虑到三班有着很多在大庆实验中考成绩能进前百的高分生，为了出成绩，需要倾斜资源照顾，他一定会给数学、物理这两个关键学科都配置高水平的老师，但因为有一个收费的外语加强班的出现，导致了一个令人匪夷所思的教师配置安排，按照招生简章：
 
 > 英语加强班学制三年，班科任由一中最优秀教师担任，外教担任口语听力课，小班额，住校食宿。英语加强班到一中教务处报名，待学校对学生英语及其他文化课程度进行测试后，择优录取。
 
@@ -152,7 +151,7 @@ math: true
 
 因为这个英语加强班的出现，导致同样有着高分中考生的理科奥赛班三班，在数学和物理这两个关键学科上，安排了两个教学水平并不突出的老师，就好像给外语加强班的人看，奥赛班三班也是这个老师。
 
-三班在高考的时候，和一班相比，出现大问题就是在物理学科，还有部分的数学问题。相比之下，化学我们班表现是最好的。但高考是一个复杂的因素，2007年高考离奇的简单又错误百出，后面会展开说。
+三班在高考的时候，和一班相比，出现大问题就是在物理学科，还有部分的数学问题。相比之下，化学我们班表现是最好的学科。但高考失利是一个复杂因素导致的事件，除了任课老师的原因外，2007年高考离奇的简单又错误百出才是致命因素，后面会展开说。
 
 我们班级美其名曰奥赛班，也有着具备冲击省级一等奖的种子选手，但是绥化一中我们这一届没有任何一个竞赛的一等奖，2007年黑龙江全省保送生我收集到的共 $51$ 人，大庆 $24$ 个，哈尔滨 $22$ 个，绥化一中一个没有。而我知道分数的大庆学生中:
 
@@ -161,7 +160,7 @@ math: true
 - 中考 $618$ 分的大庆一中李城达，数学省一等奖，保送浙大
 - 中考 $617$ 分的铁人中学的刘博，物理省一等奖，保送浙大
 
-这些学生不用面对2007年离奇简单又错误百出的高考，直通名校。而像哈师大附中一所学校，仅2008年一年就有 [$98$ 人通过预赛](https://web.archive.org/web/20081206045223/http://www.hsdfz.com.cn:80/doc/2008/09/23/141155.html)进入全国高中数学联赛决赛，除了高三 $40$ 人外，还有高一 $11$ 人和高二 $47$ 人，对于绥化一中，像我这样高三零准备裸考参加的，和初中不同，在高中几无胜率。
+这些学生不用面对2007年离奇简单又错误百出的高考，直通名校。而像哈师大附中一所学校，仅2008年一年就有 [$98$ 人通过预赛](https://web.archive.org/web/20081206045223/http://www.hsdfz.com.cn:80/doc/2008/09/23/141155.html)进入全国高中数学联赛决赛，除了高三 $40$ 人外，还有高一 $11$ 人和高二 $47$ 人，对于在绥化一中就读，类似我这样高三零准备裸考参加的，和初中不同，在高中几无胜率。
 
 ## 黑暗的魏志波时代
 
@@ -179,7 +178,7 @@ math: true
 
 魏志波办实事的能力不行，却善于自我宣传，在2004年至2007年间的《绥化日报》上，经常能在头版看到介绍魏志波校长在海伦时期和一中时期的单独报道。2012年其实是绥化一中考的最差的一年，且不和哈尔滨、大庆、佳木斯比较，就在绥化本市，绥化一中在全市理科前十名一个都没有，在绥化一中校史上仅1982年和1999年出现过这种情况，对比之下，同为绥化市的肇东一中2012年理科前十就有 $7$ 人之多，而在2005年到2014年间，绥化一中在绥化市理科前十分别有 $4$ 人、$2$ 人、$4$ 人、$2$ 人、$3$ 人、$2$ 人、$2$ 人、$2$ 人、$4$ 人、$2$ 人、$0$ 人、$2$ 人、$3$ 人，没有一年理科前十人数超过肇东一中，绥化一中在张玉臣做校长的四年，连续四年产生出绥化市最高分，而魏志波时期，2006年、2007年、2008年、2009年、2011年、2012年、2013年、2014年的绥化市理科最高分都出自肇东一中，仅2008年的往届生、我在高一时的同班同学纪红景在那年并列理科第一。
 
-绥化一中在2012年高考中，全校第一的分数全省排名大概 $600$ 名以外，是所有我知道的记录里最低的一年，但是有一个东北三省唯一考上清华大学飞行员班的王宏枭，他高考 $631$ 分，被清华大学降分 $60$ 分录取，但是魏志波把王宏枭包装成[高考总分 $691$](https://web.archive.org/web/20150223065837/http://shsdyzx.com/xysh_xyzx_nr.asp)，当年绥化市状元肇东一中的杨新岩才 $665$ 分，魏校长就把王宏枭的分数放在官网宣传，最差的一年让大家看起来像是最好的一年。
+从公开报道和学校网站的文件来看，魏志波不是不想出成绩，而是无能。绥化一中在2012年高考中，全校第一的分数全省排名大概 $600$ 名以外，是所有我知道的记录里最低的一年，但是有一个东北三省唯一考上清华大学飞行员班的王宏枭，他高考 $631$ 分，被清华大学降分 $60$ 分录取，但是魏志波把王宏枭包装成[高考总分 $691$](https://web.archive.org/web/20150223065837/http://shsdyzx.com/xysh_xyzx_nr.asp)，当年绥化市状元肇东一中的杨新岩才 $665$ 分，魏校长就把王宏枭的分数放在官网宣传，最差的一年让大家看起来像是最好的一年。
 
 魏志波2005年上任伊始就大兴土木，重修大门，装修食堂，我不知道魏校长对2006届高考生有什么伤害，但是2006年秋到2007年高考，魏校长昏招迭出，对我们这一届做了许多误人子弟的缺德事，2006年秋季一开始，学校就开始搞校庆，揭幕新雕塑，修缮楼体，去听校友报告，直到十一才消停。高三本来休息就少，很多人学习到晚上十一点半才睡，还让我们大冬天早晨五点半就起来跑早操，尤其是多为外市县的住宿生，我记得自己高三时上午第一节多数都在趴桌子补觉。高三备考关键时期，美其名曰请北京专家上课，其实就是收我们钱坑我们，利用一周唯一的半天休息，低电量状态下去听没有太多裨益的破课。
 
@@ -211,23 +210,21 @@ math: true
 - 中考 $638$ 分、$633$ 分、$628$ 分就读于大庆铁人的杨翘楚、聂森、衡畅获得浙江大学自主招生资格
 - 中考 $635$ 分、$634$ 分、$630$ 分、$607$ 分、$607$ 分就读于大庆实验的卢湦、于梦尧、王馨伟、刘畅、梁帆获得中国人民大学自主招生资格，
 
-绥化一中不仅在保送和自主招生上远逊于其他省重点高中，在高考上，手握同样的生源，绥化一中的考生也相对大庆的学生低 $30$-$40$ 分。
-
-## 和大庆市的高考对比
+绥化一中不仅在保送和自主招生上远逊于其他省重点高中，在高考上，手握同样的生源，我们三班同学也相对大庆同分层学生低 $30$-$40$ 分。
 
 <figure>
   <img src="./2007年高考大庆市中高考分数线性拟合.png">
   <figcaption>2007年高考大庆市中高考分数线性拟合（中考分 → 高考分）</figcaption>
 </figure>
 
-在高考中，我是高三三班是第一名，分数是 $666$ 分，第二名有两名，已知中考 $630$ 分的刘翔高考 $657$ 分，而我们班级高考分数集中在 $630$ 分到 $640$ 分，例如，中考分数 $642$ 分的刘欣高考 $630$ 分，对于刘欣，同样的中考分数在大庆，使用线性回归拟合，其高考的预测分要比在绥化一中实际考出的高考分数高出足足 $48$ 分之多。
+在高考中，我是高三三班是第一名，分数是 $666$ 分，第二名有两名，已知中考 $630$ 分的刘翔高考 $657$ 分，而我们班级高考分数集中在 $630$ 分到 $640$ 分，例如，中考分数 $642$ 分的刘欣高考 $630$ 分，对于刘欣，在绥化一中实际考出的高考分数，要比在大庆使用线性回归拟合预测的分数低了足足 $48$ 分之多。
 
 <figure>
   <img src="./2007年高考绥化一中高三三班成绩与大庆同中考分层考生的对比图.png">
   <figcaption>2007年高考绥化一中高三三班中考成绩和高考成绩的散点图（推测）</figcaption>
 </figure>
 
-因为我不知道班级每位同学的中考分数，甚至很多人的高考分数我都无法确定，上面这个图是在有限信息下的一个很不精准却可以示意的推测，可以看到在中考和高考排序一致的情况下，班级的前 $30$ 名普遍要比在大庆读书的考生低了 $30$ 分到 $40$ 分。我同样猜测，三班同学的成绩要比绥化一中高三一班的成绩，按照中考排序预测，还要平均低 $15$ 分左右，但高考模拟考试的时候并没有这么大的差距，除了教学问题之外，三班普遍高考分数较低的原因在于高考命题的荒诞。
+因为我不知道班级每位同学的中考分数，甚至很多人的高考分数我都无法确定，上面这个图是在有限信息下的一个很不精准却可以示意的推测，可以看到在中考和高考排序一致的情况下，班级的前 $30$ 名普遍要比在大庆读书的考生低了 $30$ 分到 $40$ 分。我同样猜测，三班同学的成绩要比绥化一中高三一班的成绩，按照中考排序预测，还要平均低 $15$ 分左右，但高考模拟考试的时候并没有这么大的差距，除了教学问题之外，三班普遍高考分数较低的致命原因在于高考命题的荒诞。
 
 ## 荒诞无比的高考命题
 
@@ -295,16 +292,14 @@ math: true
 
 理综科目，除了上面提到的物理因为严重命题事故造成的 $22$ 分，命题质量不高的 $3$ 分物理题和 $8$ 分生物体外，其他所有题目，只有化学的28题(3)的一半，失 $2$ 分，我理综估分是 $265$ 分到 $269$ 分之间，我不确定压轴的物理大题第25题能给我多少步骤分，而估高了 $3$ 分。
 
-总分上，我把自己的高考分数估计在 $665$ 分到 $675$ 分之间。
-
-<!-- 但我真正服气的失分，只有语文的 $11$分、英语的 $3.5$ 分 和 化学的 $2$ 分，以及英语和语文作文合计的 $15$ 到 $20$ 分。 -->
+总分上，我把自己的高考分数估计在 $665$ 分到 $675$ 分之间。但仅针对这套高考试卷，我既没有因马虎大意而失分，也没有运气好蒙对的题目，我真正从知识储备不足造成的失分，只有语文的 $11$分、英语的 $3.5$ 分 和 化学的 $2$ 分，以及英语和语文作文合计的 $15$ 到 $20$ 分，得到卷面满分的 $94\%$。
 
 <figure>
   <img src="./2007年高考我的高考各科成绩与鹤岗市理科前十名的对比.png">
   <figcaption>2007年高考我的高考各科成绩与鹤岗市理科前十名的对比</figcaption>
 </figure>
 
-根据上图，我自己的各科高考成绩和鹤岗市理科前十名的对比，可以看出来我的英语是优势学科，数学因为压轴大题没给步骤分或者是超几何那个题目没做对，成了弱势学科，但二者的分数优劣势抵消，语文属于正常水平，而理综是让我高考成绩不高的主要原因，而物理题里17题的 $3$ 分，24题的 $11$ 分，25题的 $8$ 分，如果没有命题失误，这 $22$ 分本不该丢，而 $287$ 分的理综是我觉得自己真实能打到的分数，即使高考的题目再难很多，数学物理越难，对我的优势就会越明显，但超纲和出错题，我是毫无办法的。
+根据上图，我自己的各科高考成绩和鹤岗市理科前十名的对比，可以看出来我的英语是优势学科，数学因为压轴大题没给步骤分或者是超几何那个题目没做对，成了弱势学科，但二者的分数优劣势抵消，语文属于正常水平，而理综是让我高考成绩不高的主要原因，但很多失分并不是我个人因素导致的，高考的题目越难，尤其是数学和物理越难，对我的优势就会越明显，但超纲和出错题，我是毫无办法的。
 
 <figure>
   <img src="./2005年高二时写诗向往自由生活.png">
@@ -318,11 +313,11 @@ math: true
   <figcaption>2006年高三写诗要勤奋考学</figcaption>
 </figure>
 
-2006年9月，也就是正好二十年前的这个时候，学校在搞校庆，我参加了全国高中数学联赛黑龙江的初试，没有进入复试，我当时已经很用心的答题，但是我大约做到第三个大题的时候就觉得每道题时间消耗很大，究其原因，就是我没有受过任何专门训练，课堂上学习的那些对付平时的考试可以，我平时的数学考试经常 $143$ 分，失分的地方也多是因为马虎，但是对于竞赛，我的熟练度实在太低了。
+2006年9月，也就是正好二十年前的这个时候，学校在搞校庆，我参加了全国高中数学联赛黑龙江的初试，没有进入复试，我当时已经很用心的答题，但是我大约做到第三个大题的时候就觉得每道题时间消耗过大，想都答对但是力不从心，究其原因，就是我没有受过任何专门训练，课堂上学习的那些对付平时的考试可以，例如，我平时的数学考试多次 $143$ 分，失分的地方也多是主要是马虎，而不是不会，但是对于竞赛，我的熟练度实在太低了。
 
-2006年的中秋节，我觉得很郁闷，年少的我觉得不服气，就决意要发力学习，大约从2006年10月到2007年的4月，我为了高考，人生第一次认真努力学习了六个月，我觉得自己准备的很好了，最后几次模拟的数学，即使压轴题很难，我也能提前二十分钟答完，高考的时候，我觉得最后一道导数压轴题还是很有挑战的，自己做完的时候觉得自己能很快想到用方程迁移转化很难得，我提前四十分钟答完高考数学卷子，觉得自己的付出得到了回报。后来，我看《新晚报》上采访哈三中老师说，他们考前练过这个题型，以至于我很好奇考了 $149$ 分的一班邢妍是跟我一样临场想到，还是张亚萍老师给他们全班都练过。
+2006年的中秋节，我觉得很郁闷，年少的我觉得不服气，决意要发力学习，大约从2006年10月到2007年的4月，我为了高考，人生第一次认真努力学习了六个月，我没有那时的成绩单，但我记得在班级的排名在短期内有着明显的上升，高考前夕，我觉得自己准备的以及足够好了，最后几次模拟的数学，即使压轴题很难，我也能提前二十分钟答完，高考的时候，我觉得最后一道导数压轴题还是很有挑战的，自己做完的时候觉得自己能很快想到用根的个数来迁移转化很难得，我提前四十分钟答完数学卷子，觉得自己的付出得到了回报。可后来，我看到接受《新晚报》采访的哈三中老师说，他们考前练过这个题型，以至于我很好奇全市数学最高分 $149$ 分的邢妍是跟我一样临场想到，还是一班的张亚萍老师给一班提前练过。
 
-不管怎么说，没有投入那么大精力的我，对这个结果也是能接受的，高考是我自打小学三年级从农村来县里读书之后，十年来第一次考班级第一，况且终于要离开充满束缚的高中，所以对年少的我来说，这高低也是一件值得庆幸的事，但接下来报考的失败，让我的痛苦程度直接翻倍。
+不管怎么说，没有投入那么大精力的我，对这个结果也是能接受的，高考是我自打小学三年级从农村来县里读书之后，十年来第一次考班级第一，况且终于要逃离充满束缚的高中，所以对年少的我来说，这高低也是一件值得庆幸的事，但接下来报考的失败，让我的痛苦程度再次翻倍。
 
 ## 伤心的报考
 
@@ -348,19 +343,21 @@ math: true
 
 和现在火爆的高考报志愿不同，我父亲没有找人额外再问问怎么报考，没有细致的研究利弊，我后来知道清华招生办在哈尔滨可以线下交流，可以打电话跟负责黑龙江省的招生人员咨询，所以如果多问几嘴，我也就会被劝退，去报上海交大了。至于选专业，除了我真心想去的数理基科班，很多专业是我父亲看报纸上的新闻决定的，我根本不知道材料学是什么概念，就稀里糊涂报了，但是我哈工大的第一志愿专业是通信工程，分数没有达到，去的材料科学与工程专业。
 
-6月24日下午4点多，我和张琦还有我父亲在鱼塘钓鱼，高考成绩出来，我自己如晴天霹雳般痛苦，因为我很有可能要走二表，去首都师范。对于一个不太勤奋的高中生，一个本来可以考上上海交大的好事，瞬间跌落成只能去二表的恐慌，从6月24日，到哈工大录取结果出来，整个人都极度的颓废和痛苦，这种本不应该发生的悲剧，被两个大人的虚荣和利益，也包括绥化一中老师传递的不实信息，硬生生的把自己的高中努力化为巨大的痛苦折磨。上一次这么痛苦还是中考的时候。
+6月24日下午4点多，我和张琦还有我父亲在鱼塘钓鱼，高考成绩出来，我自己如晴天霹雳般痛苦，因为我很有可能要走二表，去首都师范。对于一个不太勤奋的高中生，一个本来可以考上上海交大的好事，瞬间跌落成只能去二表的恐慌，从6月24日，到哈工大录取结果出来，整个人都极度的颓废和痛苦，这种本不应该发生的悲剧，被两个大人的虚荣和利益，也包括绥化一中老师传递的不实信息，硬生生的把自己的高中努力化为巨大的痛苦折磨。上一次这么痛苦还是中考的时候，是真的每逢大考都是我做的太差了吗？
 
 ## 写在结尾
 
-限于这个文章的主题，虽然整个文章里似乎全员恶人，但我并不是觉得高中生活是那么痛苦的，在充满约束的同时，也因为青春期对大多数信号的强烈激奋，让我的高中生活有很多美好的记忆，也结识了很多相处二十余年的好友，我们的老师，尤其是胡玉龙老师，对我关怀有加，给我鼓舞和建议，在那个性格形成的年龄，给了我很大的支持鼓舞。
+> Be curious, not judgmental.
+
+我对应试教育有着很多自己的看法，但限于本文专注心理疗愈的主题，就暂不展开了，同时，虽然整个文章里似乎全员恶人，但我并不是觉得高中生活是那么痛苦的，在充满约束的同时，因为青春期对大多数信号的强烈激奋，让我的高中生活有很多美好记忆，也结识了很多相处二十余年的好友，我们的老师，尤其是胡玉龙老师，对我关怀有加，给我鼓舞和建议，在那个性格形成的年龄，给了我很大的支持鼓舞。
 
 每次想起中高考，我总觉得我是造成我痛苦的原因，或许是我不够努力，或许是我努力的方法有问题，是我辜负了身边人的付出，作为演员的我，是我搞砸了这场众人精心筹备的盛大演出。
 
-可惜，我不是被寄予厚望的主角，我是鱿鱼游戏里被戏耍的囚徒。
+可惜，我不是被寄予厚望的主角，我是鱿鱼游戏里被戏耍的玩物。嘲笑我们是小镇做题家，但你们那张强人所难又缺乏智力挑战的糟烂考题，怎能丈量我们这一代人的才华与深邃？想用名校标签就劫持我们的自我评价，可你们那低维粗鄙的混乱价值体系，怎能理解我们这一代人的人格光辉和无限可能？
 
-但随着自己年龄的长大，我意识到我时刻在用外界的尺子去衡量自己生命的质量，而那是一把刻度混乱的坏尺子，我觉得年少的自己，愿意把身边的每个人都想成是认真负责又聪明善良的人，但“能用愚蠢解释的，就不要归咎于恶意”。
+随着年龄的长大，我逐渐意识到我时刻在用外界的尺子去衡量自己生命的质量，可那是一把刻度混乱的坏尺子，我觉得年少的自己，愿意把身边的每个人都想成是认真负责又聪明善良的人，但 “能用愚蠢解释的，就不要归咎于恶意”。
 
-我也是 Andy Dufresne，在这个失效的尺子下，不幸地被错判了十九年的心理徒刑。
+我也是 Andy Dufresne，在这个失效的尺子下，不幸蹲了十九年的心理冤狱。
 
 
 > ...some birds aren't meant to be caged. 
